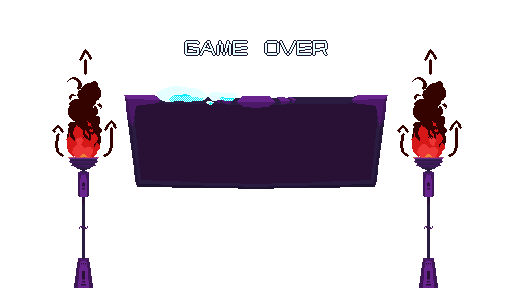
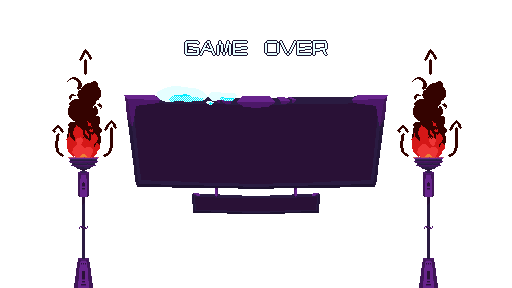
Multiplayer local polidamente implementado. A manutenção da classe sprite e a remoção das constantes universais do player permitiram que fosse possível criar duas entidades da mesma classe de forma totalmente funcional e independente.

Changed region(s): [[0.375, 0.6562, 0.625, 0.75]]

diff --git a/src/utilz/Screen.java b/src/utilz/Screen.java
@@ -40,7 +40,7 @@ public class Screen {
     public static List<Objects> objectsOnScreen = new ArrayList<>(); //vou usar pra dar update e render no player e nos obstaculos simultaneamente (mto amigavel com a cpu)
     
     Player player1;
-    //Player player2;
+    Player player2;
     Spawner spawner;
     /*--- camadas do cenário ---*/
     Layer1 layer1;
@@ -75,9 +75,9 @@ public class Screen {
             objectsOnScreen.add(new FallBlock(this, this.gc));
         }
         player1 = new Player(this, this.gc, 1);
-        //player2 = new Player(this, this.gc, 2);
+        player2 = new Player(this, this.gc, 2);
         objectsOnScreen.add(player1);
-        //objectsOnScreen.add(player2);
+        objectsOnScreen.add(player2);
     }
     
     /*------------ MÉTODO RENDER ------------*/
@@ -148,14 +148,10 @@ public class Screen {
                         continue;
                     }
                     
-                    /*if (obj instanceof Entities && ((Player) obj).getPlayerIndex() == 2) {
-                        obj.setIsActive(false);
-                        continue;
-                    }*/ //faz o player 2 sumir
                     obj.update(variacaoTempo);
                 }
                 spawner.play();
-                if(player1.dead){
+                if(player1.dead || player2.dead){
                     
                     for (Objects obj : objectsOnScreen){
                         if(obj instanceof Entities && obj.getY() > Universal.GAME_HEIGHT){
@@ -207,12 +203,26 @@ public class Screen {
     /*------------ MÉTODO QUE RESETA AS COORDENADAS DAS INSTANCIAS NA TELA ------------*/
     public static void startCoordenates(){
         for (Objects obj : objectsOnScreen) {
-            if (obj instanceof Entities) {
-                obj.setIsActive(true);
-                obj.setX(120);
-                obj.setY(360);
-                ((Player)obj).movement.isJumping = true;
-                ((Player)obj).dead = false;
+            if(!Universal.bothPlaying){ //Jogador sozinho
+                if (obj instanceof Entities) {
+                    if(((Player)obj).getPlayerIndex() == 2){ //player 2 inativado
+                        obj.setIsActive(false);
+                    } else { //player 1 continua ativo
+                        obj.setIsActive(true);
+                        obj.setX(120 * ((Player) obj).getPlayerIndex());
+                        obj.setY(360);
+                        ((Player) obj).movement.isJumping = true;
+                        ((Player) obj).dead = false;
+                    }
+                } 
+            } else { //Jogando com um amigo localmente
+                if (obj instanceof Entities) {
+                    obj.setIsActive(true);
+                    obj.setX(120 * ((Player)obj).getPlayerIndex());
+                    obj.setY(360);
+                    ((Player)obj).movement.isJumping = true;
+                    ((Player)obj).dead = false;
+                }
             }
             if(obj instanceof Environment){
                 obj.setIsActive(true);

diff --git a/src/ui/MultiplayerMenu.java b/src/ui/MultiplayerMenu.java
@@ -8,6 +8,7 @@ import java.awt.image.BufferedImage;
 import java.io.IOException;
 import javax.imageio.ImageIO;
 import utilz.AnimationType;
+import utilz.Screen;
 import utilz.Sprite;
 import utilz.SpriteData;
 import utilz.SpriteLoader;
@@ -26,7 +27,7 @@ public class MultiplayerMenu implements ScreenStates {
         initSpriteMenu();
         botoesMenu[0] = new Buttons(3*Universal.TILES_SIZE, 3*Universal.TILES_SIZE + (Universal.TILES_SIZE/4), 48, 48, botaoAsServer, Gamestate.SERVER_HOSTING); //servidor
         botoesMenu[1] = new Buttons(7*Universal.TILES_SIZE + (Universal.TILES_SIZE/4)  , 3*Universal.TILES_SIZE + (Universal.TILES_SIZE/4), 48, 48, botaoAsClient, Gamestate.CLIENT_CONNECTING); //cliente
-        botoesMenu[2] = new Buttons(11*Universal.TILES_SIZE + (Universal.TILES_SIZE/2)  , 3*Universal.TILES_SIZE + (Universal.TILES_SIZE/4), 48, 48, botaoLocal, Gamestate.CLIENT_CONNECTING); //cliente
+        botoesMenu[2] = new Buttons(11*Universal.TILES_SIZE + (Universal.TILES_SIZE/2)  , 3*Universal.TILES_SIZE + (Universal.TILES_SIZE/4), 48, 48, botaoLocal, Gamestate.PLAYING); //multiplayer local
         botoesMenu[3] = new Buttons(20, 20, 48, 48, botaoExit, Gamestate.MENU); //voltar
     }
     
@@ -89,7 +90,15 @@ public class MultiplayerMenu implements ScreenStates {
         for (Buttons but : botoesMenu) {
             if (isIn(e, but)) {
                 if (but.isCursorPressed()) {
+                    if (but.getState() == Gamestate.PLAYING) {
+                        Universal.bothPlaying = true;
                         but.applyGamestate();
+                        Screen.resetCoordenates();
+                        Screen.startCoordenates();
+                    } else {
+                        Universal.bothPlaying = true;
+                        but.applyGamestate();
+                    }
                 }
             }
         }

diff --git a/src/loop/GCanvas.java b/src/loop/GCanvas.java
@@ -80,7 +80,12 @@ public class GCanvas extends Canvas {
             g2D.drawString("Criar Servidor", 3*Universal.TILES_SIZE - 65, 5*Universal.TILES_SIZE + 25);
             g2D.drawString("Jogar como Cliente", 7*Universal.TILES_SIZE - 65, 5*Universal.TILES_SIZE + 25);
             g2D.drawString("Local", 12*Universal.TILES_SIZE - 25, 5*Universal.TILES_SIZE + 25);
-    
+            }
+            if(Gamestate.state == GAME_OVER){
+                g2D.setFont(fontInGame);
+                g2D.setColor(Color.WHITE);    
+                g2D.drawString("SCORE:", 6 * Universal.TILES_SIZE + 40, 6 * Universal.TILES_SIZE + 45);
+                g2D.drawString(String.valueOf(Universal.SCORE), 8 * Universal.TILES_SIZE + 15, 6 * Universal.TILES_SIZE + 45);
             }
             
             

diff --git a/src/ui/Menu.java b/src/ui/Menu.java
@@ -89,8 +89,10 @@ public class Menu implements ScreenStates {
                         but.applyGamestate();
                         Screen.resetCoordenates();
                         Screen.startCoordenates();
+                        Universal.bothPlaying = false;
                     } else {
                         but.applyGamestate();
+                        Universal.bothPlaying = false;
                     }
                 }
             }

diff --git a/src/instances/entities/Movement.java b/src/instances/entities/Movement.java
@@ -16,7 +16,7 @@ public class Movement {
     public float atrito = 25.0f*Universal.SCALE;
 
     /*vertical*/
-    public static boolean isJumping = false;
+    public boolean isJumping = false;
     public float verticalSpeed = 0f; //Y
     public float gravity = 0.08f * Universal.SCALE;
     public float jumpPower = -2.8f * Universal.SCALE; // Força do meu salto

diff --git a/src/utilz/Universal.java b/src/utilz/Universal.java
@@ -8,6 +8,7 @@ public class Universal {
     */
     public static int SCORE = 0; 
     public static long globalCooldown = 4000;
+    public static boolean bothPlaying = false;
     
     /*configuração de fps*/
     public static final int FPS_SET = 60;
